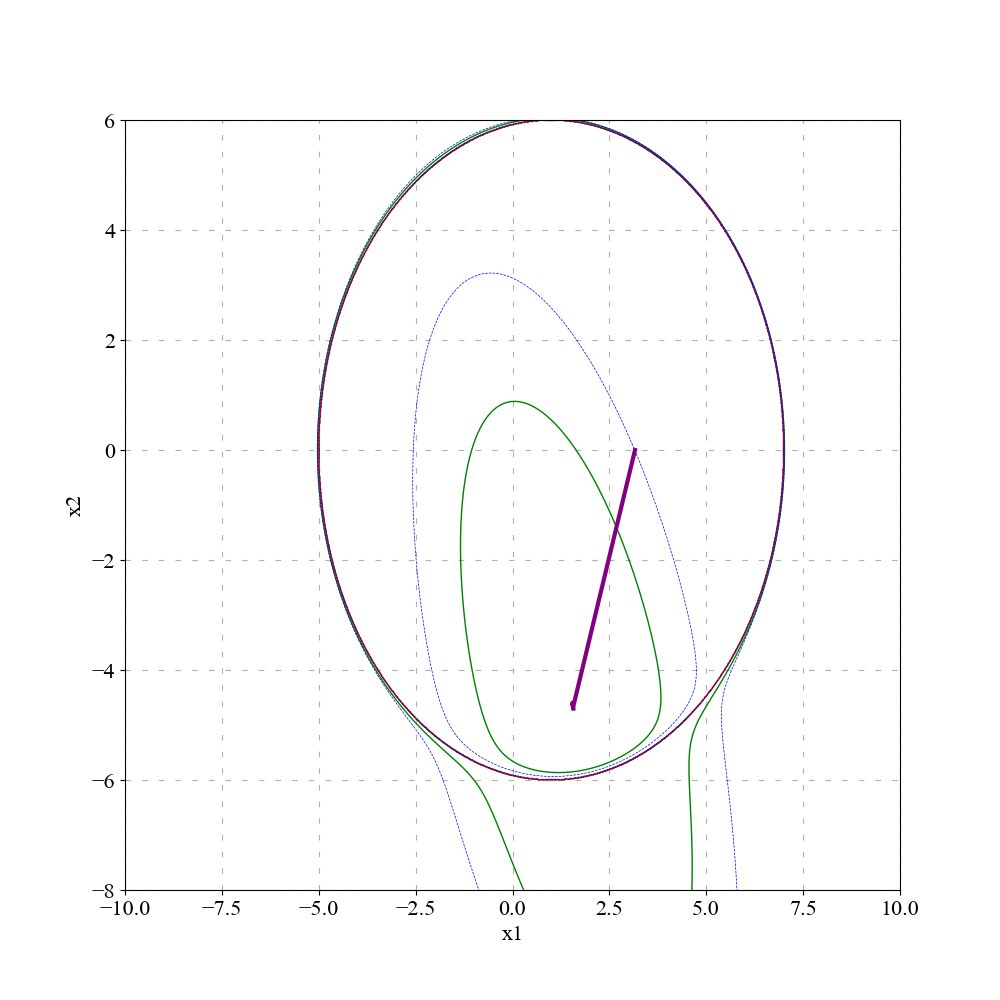
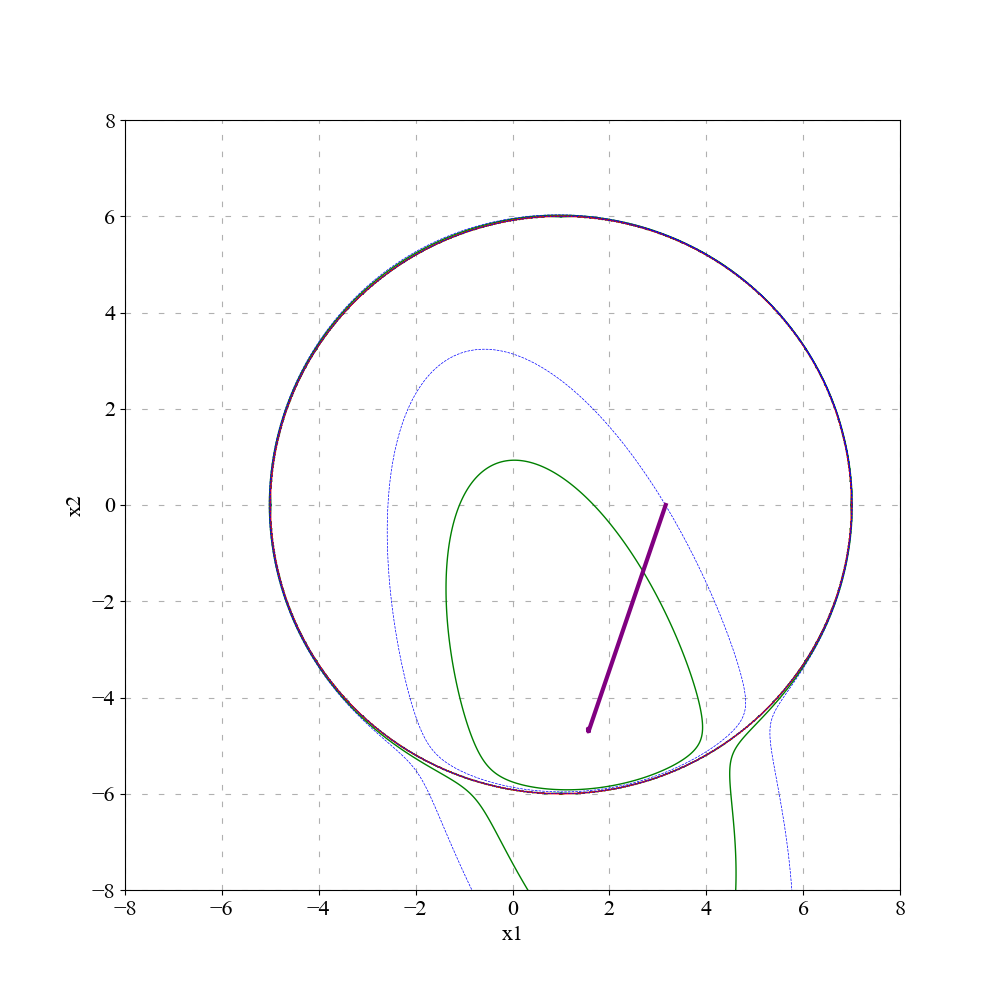
asd

diff --git a/sch/sch4.py b/sch/sch4.py
@@ -11,12 +11,12 @@ N = 4 #количество знаков после запятой
 Q = np.array([[22,6],[6,6]]) 
 b = np.array([[-2*np.sqrt(10.0)],[6*np.sqrt(10)]]) 
 c = -22 
-c0 = 100 
+c0 = 60 
 Q_g = np.array([[2,0],[0,2]]) 
 b_g = np.array([[-4],[0]]) 
 c_g = -36 
 n = 2 
-i = n+1 
+i = n + 1 
 x0 = np.array([[np.sqrt(10.0)],[0]]) 
 epsilon = 10**(-3) #погрешность 
 def X(x): 
@@ -39,10 +39,10 @@ def grad_f(x,C):
 def f_k(x_,C_): 
     return f(x_)-C_/g(x_) 
 #константы и функции для построения графика 
-left = -10
-rigth = 10
+left = -8
+rigth = 8
 bottom = -8
-top = 6
+top = 8
 x1, x2 = np.mgrid[left-0.5:rigth+0.5:0.01,bottom-0.5:top+0.5:0.01] 
 zg = 11*x1**2+3*x2**2+6*x1*x2-2*np.sqrt(10)*(x1-3*x2)-22 
 zg_g = (x1-1)**2+(x2+0)**2-6**2
